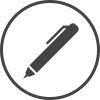
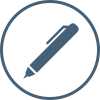
CSS - Presentation + Reponsive - Menu Final

Changed region(s): [[0.0, 0.0, 1.0, 1.0], [0.24, 0.21, 0.81, 0.78]]

diff --git a/css/styles.css b/css/styles.css
@@ -7,13 +7,9 @@
   font-family: 'Montserrat',sans-serif;
 }
 
-body {
-  background-color: #e6e6e6;
-}
-
 maincolor {
   background: #466075;
-  background: #BBE1FF;
+  background: #a8ccea;
   background: #86A7C2;
   background: #755422;
   background: #C28425;
@@ -23,7 +19,6 @@ maincolor {
 
 /* NAV + header */
 nav{
-  background: #466075;
   padding: 5px 40px;
 }
 nav ul{
@@ -51,7 +46,7 @@ nav ul li.items:after{
   bottom: 5px;
   height: 2px;
   width: 100%;
-  background: #BBE1FF;
+  background: #466075;
   opacity: 0;
   transition: all 0.2s linear;
 }
@@ -61,20 +56,20 @@ nav ul li.items:hover:after{
 }
 nav ul li.logo{
   flex: 1;
-  color: #BBE1FF;
+  color: #466075;
   font-size: 40px;
   font-weight: 600;
   cursor: default;
   user-select: none;
 }
 nav ul li a{
-  color: #BBE1FF;
+  color: #466075;
   font-size: 18px;
   text-decoration: none;
   transition: .4s;
 }
 nav ul li:hover a{
-  color: #BBE1FF;
+  color: #466075;
 }
 nav ul li i{
   font-size: 23px;
@@ -103,8 +98,8 @@ nav ul li.btn.hide i:before{
   }
   nav ul li.items:hover{
     border-radius: 5px;
-    box-shadow: inset 0 0 5px #86A7C2,
-                inset 0 0 10px #BBE1FF;
+    box-shadow: inset 0 0 5px #466075,
+                inset 0 0 10px #2f4150;
   }
   nav ul li.items:hover:after{
     opacity: 0;
@@ -120,8 +115,8 @@ nav ul li.btn.hide i:before{
   background-position: center;
   padding-top: 1px;
   margin: px auto;
-  border-top: 2px dotted white;
-  border-bottom: 2px dotted white;
+  border-top: 2px dotted #466075;
+  border-bottom: 2px solid #466075;
 }
 .accueil h2 {
   text-align: center;
@@ -132,9 +127,9 @@ nav ul li.btn.hide i:before{
 }
 .button-main {
   border-radius: 30px;
-  background: #466075;
+  background: #a8ccea;
   border: 1px solid #BBE1FF;
-  color: #fff;
+  color: #466075;
   text-align: center;
   font-size: 22px;
   display: block;
@@ -147,7 +142,7 @@ nav ul li.btn.hide i:before{
   transition: all 0.2s ease-in-out;
 }
 .button-main:hover {
-  background: #86A7C2;
+  background: #bcdffd;
   color: #466075;
 }
 .sous-titre {
@@ -177,28 +172,101 @@ nav ul li.btn.hide i:before{
   }
 }
 
+/* Organisation avec les 3 icones */
+
 #organisation {
-  margin: 50px auto;
-  background: #466075;
+  margin: 3vh auto;
+  border-top: 2px solid #466075;
+  border-bottom: 2px solid #466075;
 }
 .etapes {
   display: flex;
 }
-
 .bloc-icons {
   text-align: center;
-  margin: 2vh;
-}
-
-.bloc-icons img {
-  filter: invert();
+  margin: 3vh;
 }
 .bloc-icons h3{
-  margin: 1vh;
-  color
+  margin: 2.5vh auto;
+  color: #466075;
+  font-size: 28px;
+  font-weight: bold;
+}
+.bloc-icons p {
+  color: #466075;
+  font-style: italic;
+  margin-bottom: 3vh;
 }
 
+/* Organisation: Reponsive 3 icons */
+@media (max-width: 850px) {
+  .etapes {
+    display: block;
+  }
+  .bloc-icons h3{
+  font-size: 18px;
+  }
+  .bloc-icons p{
+    font-size: 18px;
+  }
+  #organisation {
+    margin: 2vh auto;
+    border-top: none;
+    border-bottom: none;
+  }
+}
 
+/* Section A propos  */
 
+#apropos h2{
+  font-size: 32px;
+  margin-left: 5vh;
+  font-weight: bold;
+  color: #2f4150;
+}
+.presentation {
+  display: flex;
+  margin: auto;
+  align-items: center;
+  justify-content:center;
+  width: 80%;
+}
+.presentation img {
+  height: 500px;
+}
+.presentation p {
+ margin-top: 1vh;
+ text-align: justify;
+ line-height: 3vh;
+ 
+}
+.text-apropos {
+  padding-left: 4vh;
+}
+.presentation ul {
+  margin: 3vh 0 2vh 3vh;
+  line-height: 3vh;  
+}
+.presentation li {
+  list-style: inside;
+  margin-bottom: 1vh;
+  font-style: italic;
+}
 
+@media (max-width: 1024px) {
+  
+  #apropos h2{
+    font-size: 27px;
+    margin-left: 4vh;
+    font-weight: bold;
+    color: #2f4150;
+  }
+  .presentation {
+  flex-wrap: wrap;
+  }
+  .presentation img {
+    height: 400px;
+    padding: 0;
+  }
+}
 

diff --git a/index.html b/index.html
@@ -25,7 +25,7 @@
             <nav>
                 <ul>
                     <li class="logo">City-Go</li>
-                    <li class="items"><a href="#">Acceuil</a></li>
+                    <li class="items"><a href="#">Accueil</a></li>
                     <li class="items"><a href="#">Destination d'europe</a></li>
                     <li class="items"><a href="#">Amsterdam</a></li>
                     <li class="items"><a href="#">Athènes</a></li>
@@ -42,7 +42,7 @@
         <h2>Organisez votre City-trip</h2>
         <p class="sous-titre">Votre meilleure décision pour les vacances.</p>
         <a href="" class="button-main">Let's Go!</a>
-    </section>
+    </section
     <!-- Section organisation -->
     <section id="organisation">
         <div class="etapes">
@@ -68,21 +68,21 @@
     </section>
     <!-- Section à propos regroupant Une image et un text  -->
     <section id="apropos">
-        <h2>City-Go, c’est quoi ?</h2>
+        <h2>Mais qu'est ce qu'est City-Go ?</h2>
         <div class="presentation">
             <img src="img/famille_apropos.png" alt="Illustration: Famille qui se prends en photo en vacance">
             <div class="text-apropos">
                 <p>
-                    Nous nous engageons à proposer uniquement les meilleurs prix à nos clients. C’est la raison pour
+                    Nous nous engageons à proposer uniquement les <strong> meilleurs prix à nos clients</strong>. C’est la raison pour
                     laquelle vous trouverez sur notre site un choix limité de destinations. Nous proposons des
                     vacances
-                    tout inclus dans les plus grande ville d’Europe car nous sommes certains que nos tarifs sont
+                    tout inclus dans les plus grande ville d’<strong>Europe</strong> car nous sommes certains que nos tarifs sont
                     imbattables.
                 </p>
                 <p>
-                    Depuis plus de 70 ans, l’entreprise a bâti sa réputation sur l’expertise de City trip en europe
+                    Depuis plus de <strong>70 ans</strong>, l’entreprise a bâti sa réputation sur l’expertise de <strong>City trip</strong>  en europe
                     et a
-                    diversifié ses activités. Aujourd’hui, elle est active dans:
+                    diversifié ses activités. </br>Aujourd’hui, elle est active dans:
                 </p>
                 <ul>
                     <li>la production et la commercialisation de voyages organisés (forfaits) en train, en avion et
